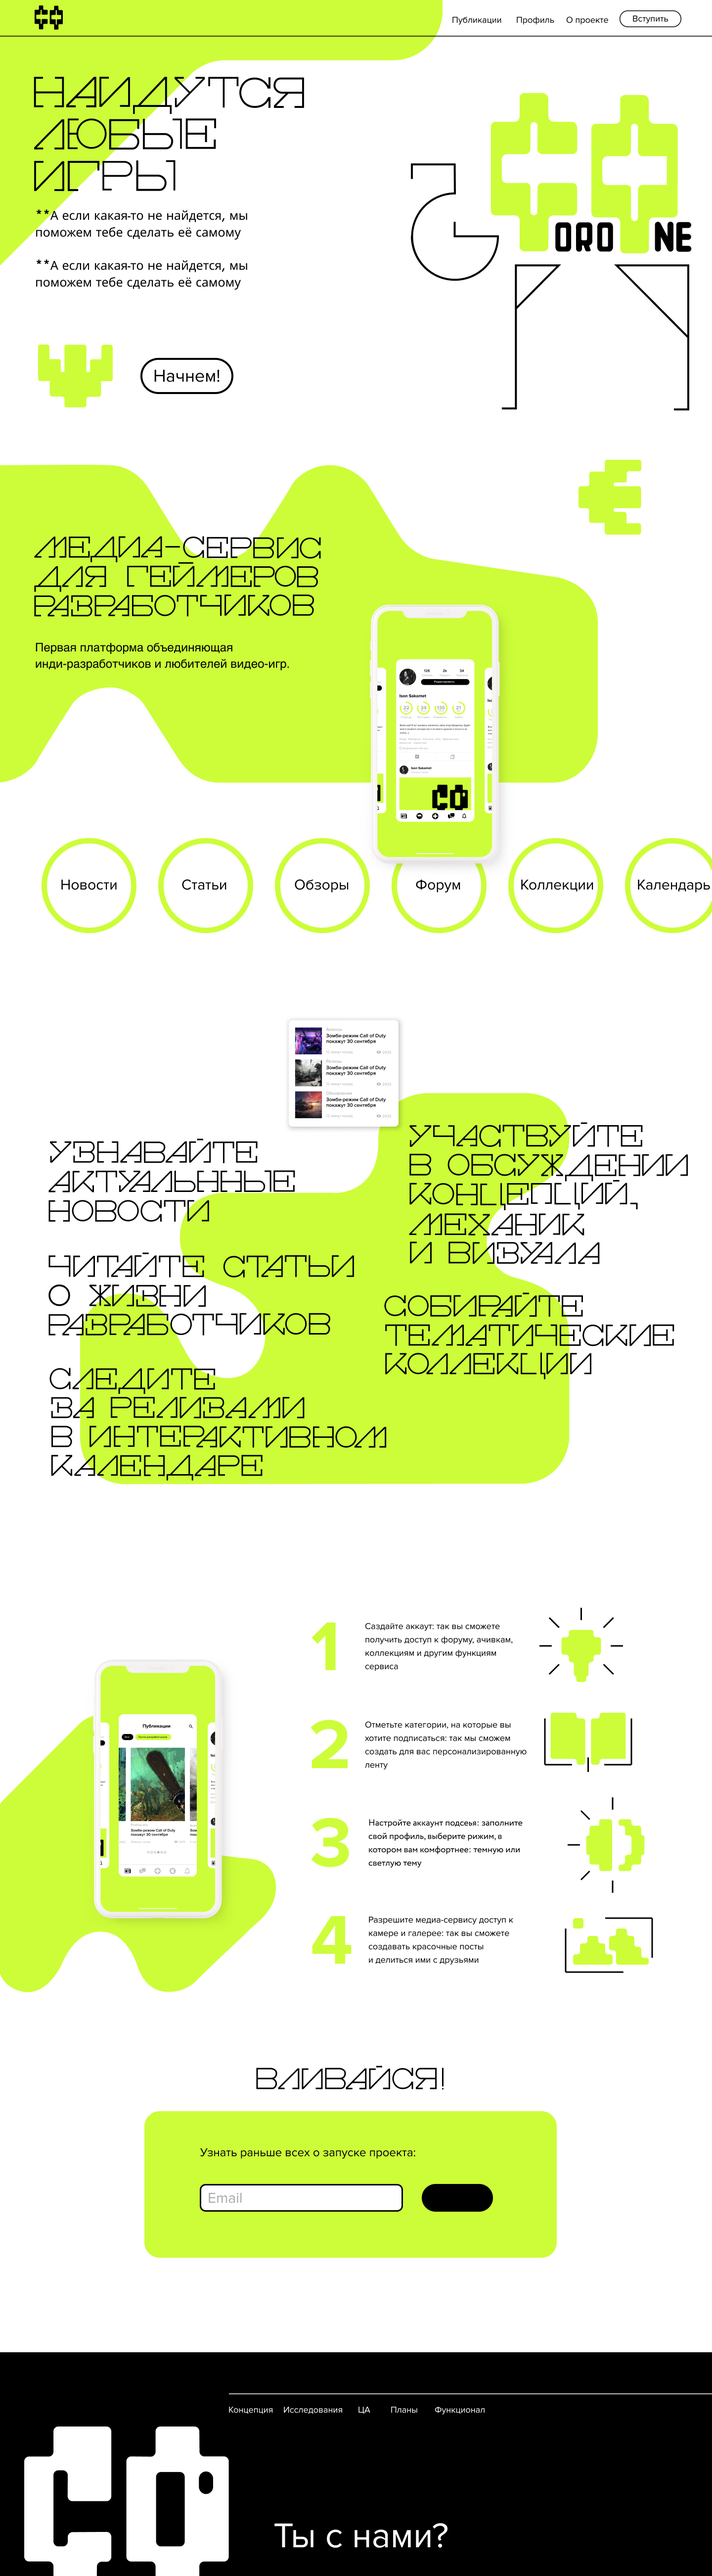
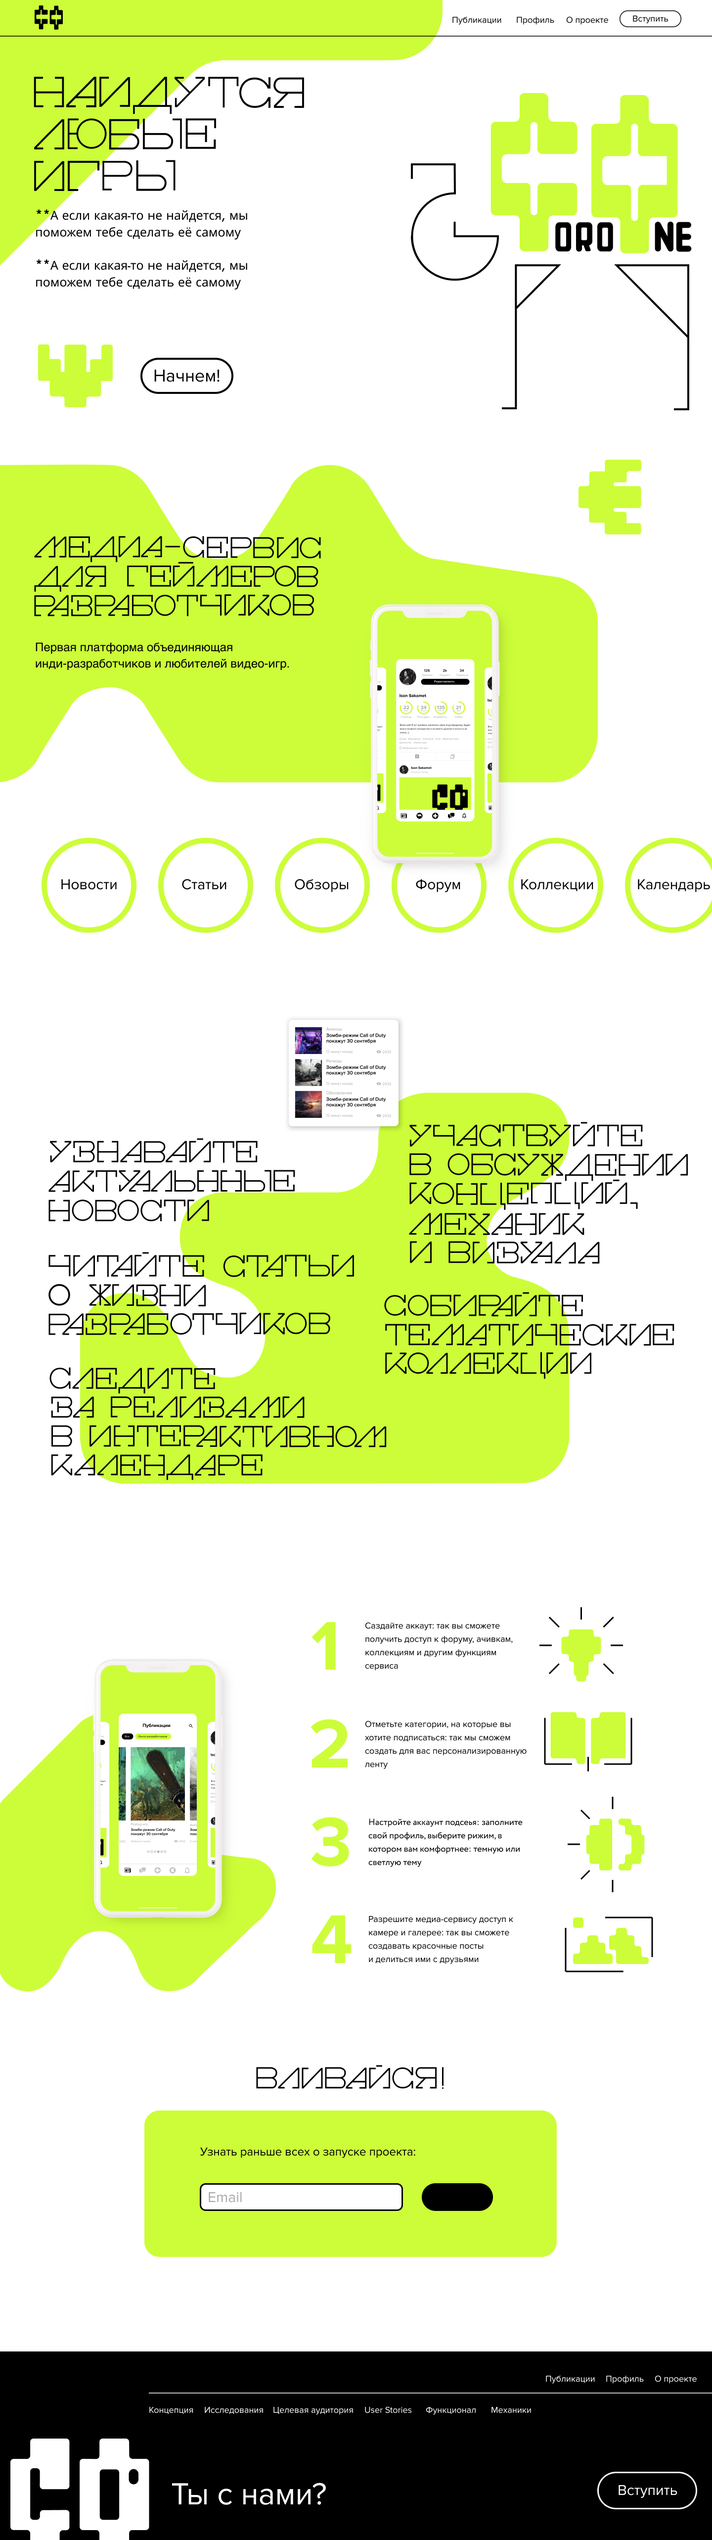
Сверстала футер, закончила промо в статике

diff --git a/app/assets/stylesheets/footerinner.scss b/app/assets/stylesheets/footerinner.scss
@@ -1,0 +1,58 @@
+footer  {
+  height: 26.5vw;
+  color: white;
+  background-color: black;
+  opacity: 1;
+  display: flex;
+  .left {
+    img {
+      margin: 12.3vw 0 0 1.5vw;
+    }
+  }
+  .right {
+    display: flex;
+    flex-direction: column;
+    width: 79vw;
+    .main_menu {
+      align-self: flex-end;
+      width: 21.5vw;
+      display: flex;
+      margin: 3.3vw 2vw 1.4vw;
+      justify-content: space-between;
+      a {
+        color: white;
+        font-size: 1.2vw;
+      }
+    }
+    .about_sections {
+      border-top: 0.2vw solid white;
+      padding: 1.5vw 25vw 0 0;
+      display: flex;
+      justify-content: space-between;
+      a {
+        color: white;
+        font-size: 1.2vw;
+      }
+    }
+    .add {
+      margin: 8vw 2vw 0 3vw;
+      display: flex;
+      justify-content: space-between;
+      span {
+        font-size: 4.6vw;
+        line-height: 7vw;
+      }
+      a {
+        line-height: 4.8vw;
+        padding: 0.1vw 1.6vw;
+        border: 0.2vw solid white;
+        border-radius: 3vw;
+        color: white;
+        font-size: 2vw;
+        height: 4.7vw;
+        width: 10.7vw;
+        text-align: center;
+      }
+    }
+  }
+}

diff --git a/app/assets/stylesheets/promo.scss b/app/assets/stylesheets/promo.scss
@@ -28,9 +28,9 @@
 $mainColor: #CCFD38;
 
 body {
-  // background-image: url(background_1.png);
+  background-image: url(background_1.png);
   background-repeat: no-repeat;
-  height: 300vw;
+  height: 330vw;
   opacity: 1;
   .first {
     position: relative;
@@ -239,7 +239,7 @@ body {
     }
   }
   .fifth {
-    height: 46vw;
+    height: 40.1vw;
     text-align: center;
     margin-top: 5.8vw;
     .field {

diff --git a/app/assets/stylesheets/navbarinner.scss b/app/assets/stylesheets/navbarinner.scss
@@ -11,7 +11,7 @@ nav {
     display: flex;
     justify-content: space-between;
     align-items: center;
-    font-size: 1.1vw;
+    font-size: 1.2vw;
     a:last-child {
       line-height: 1.8vw;
       padding: 0.1vw 1.5vw;
